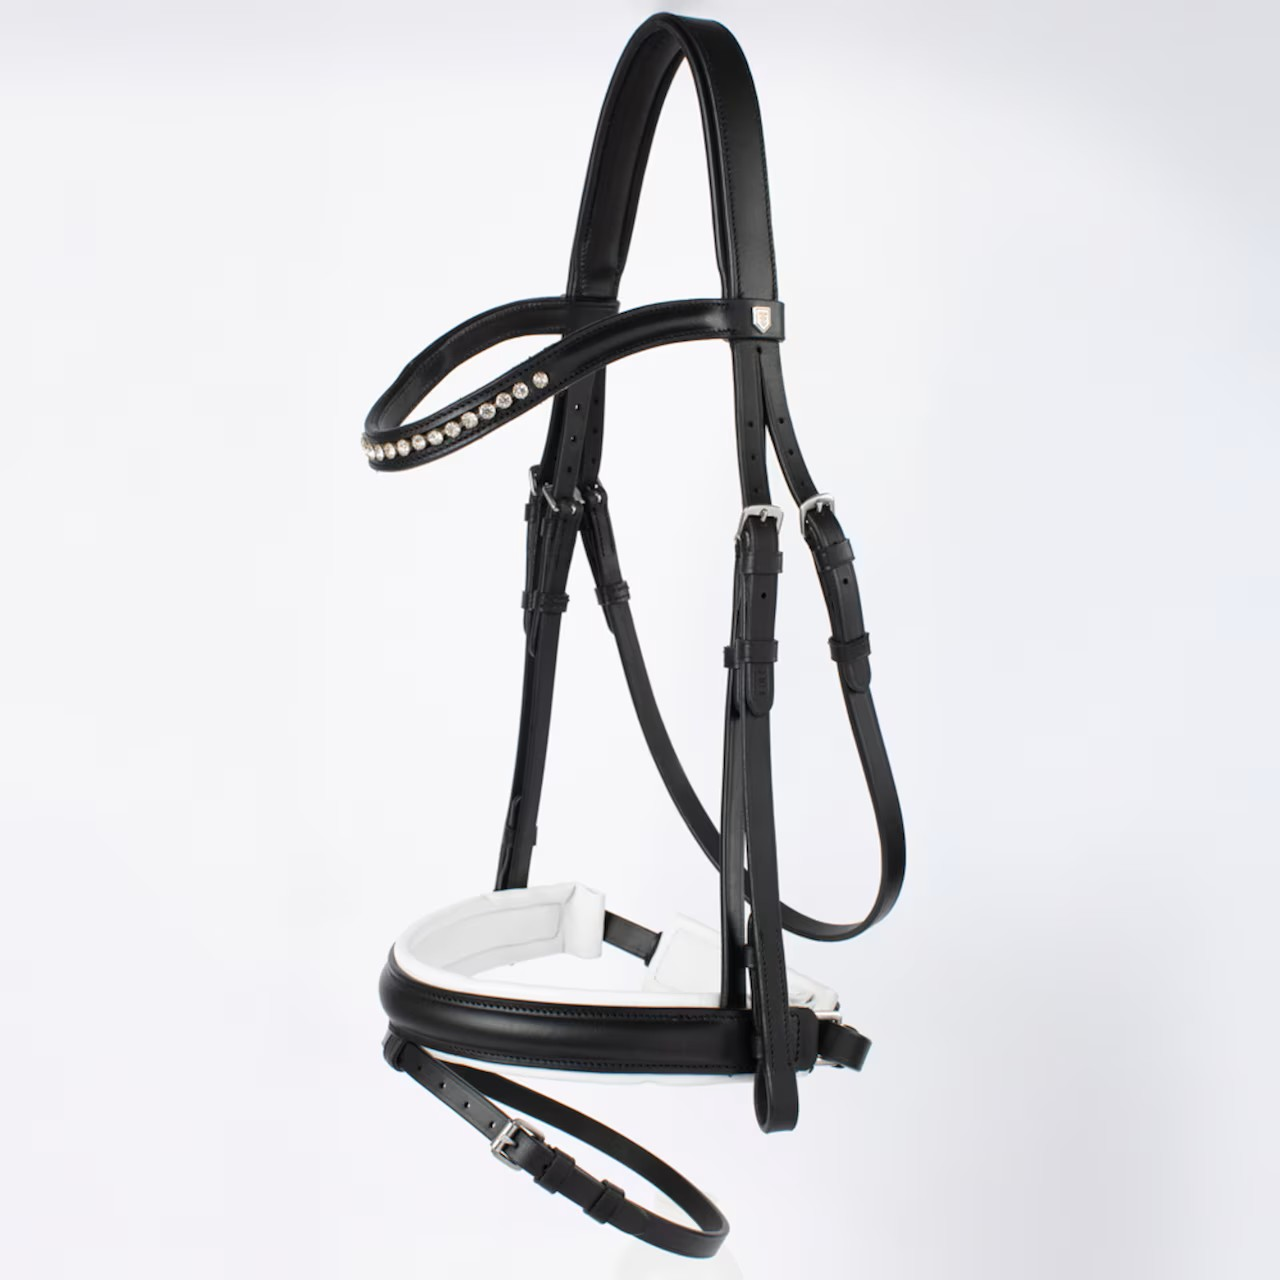
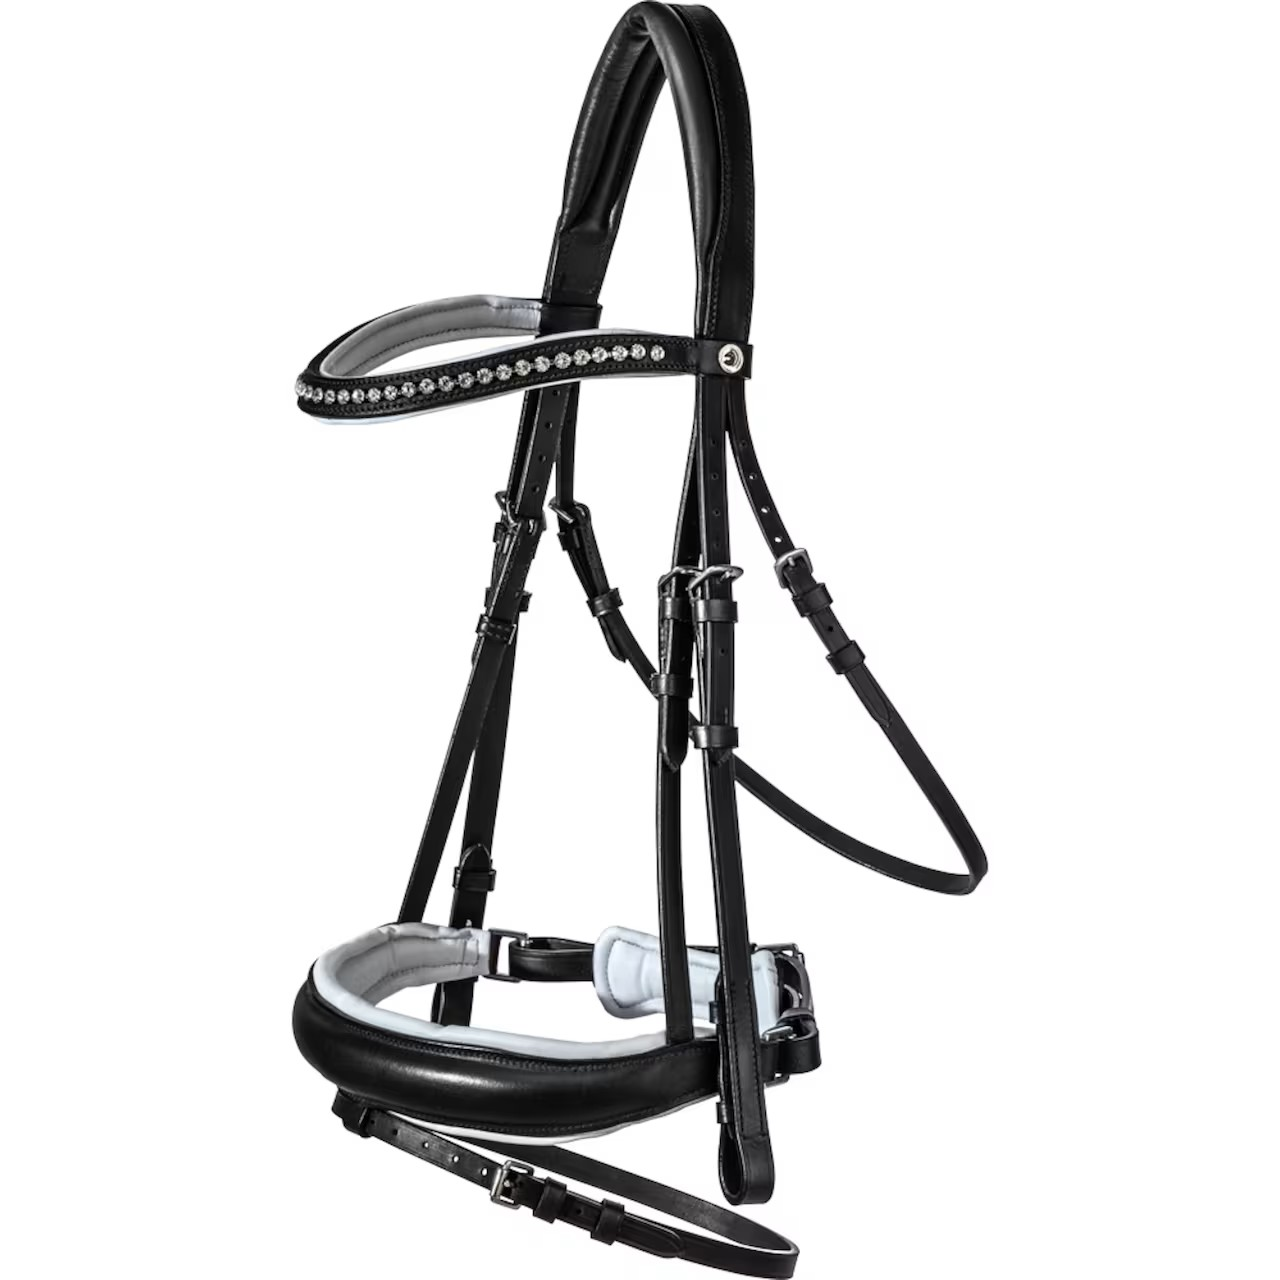
Cleanup

Changed region(s): [[0.2188, 0.0, 1.0, 1.0]]

diff --git a/Style/main.css b/Style/main.css
@@ -1,7 +1,5 @@
 body{
-
 margin: 0;
-
 }
 
 header {
@@ -73,14 +71,13 @@ nav a {
   margin-top: 2em;
 }
 
-.boxText{
+.boxText {
   position: absolute;
   margin-top: 220px;
   color: #027059;
   font-family: "scotch-display", sans-serif;
   font-weight: bold;
   font-style: normal;
-
 }
 
 
@@ -110,6 +107,15 @@ nav a {
 .horse:hover .hoverhorse {
   opacity: 1;
 }
+
+
+/* Detail Page Dressage Bridle */
+.bridleImage img{
+
+  max-width: 50%;
+  padding: 5%;
+}
+
 
 
 

diff --git a/detailpage.html b/detailpage.html
@@ -41,7 +41,9 @@
     </nav>
 
     <main>
-
+      <div class = "bridleImage">
+      <img src="images/Dressage.jpg" alt="Dressage Bridle Image">
+      </div>
 
 
 
